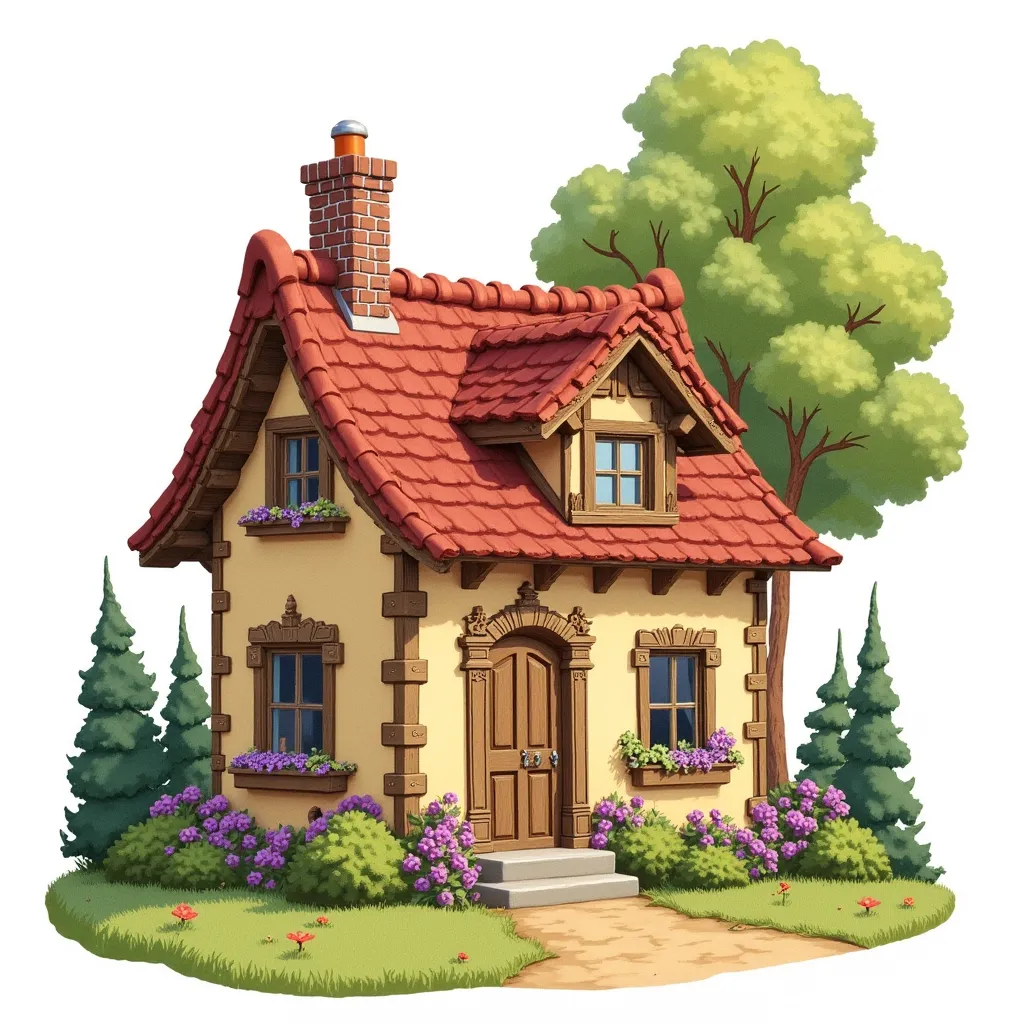
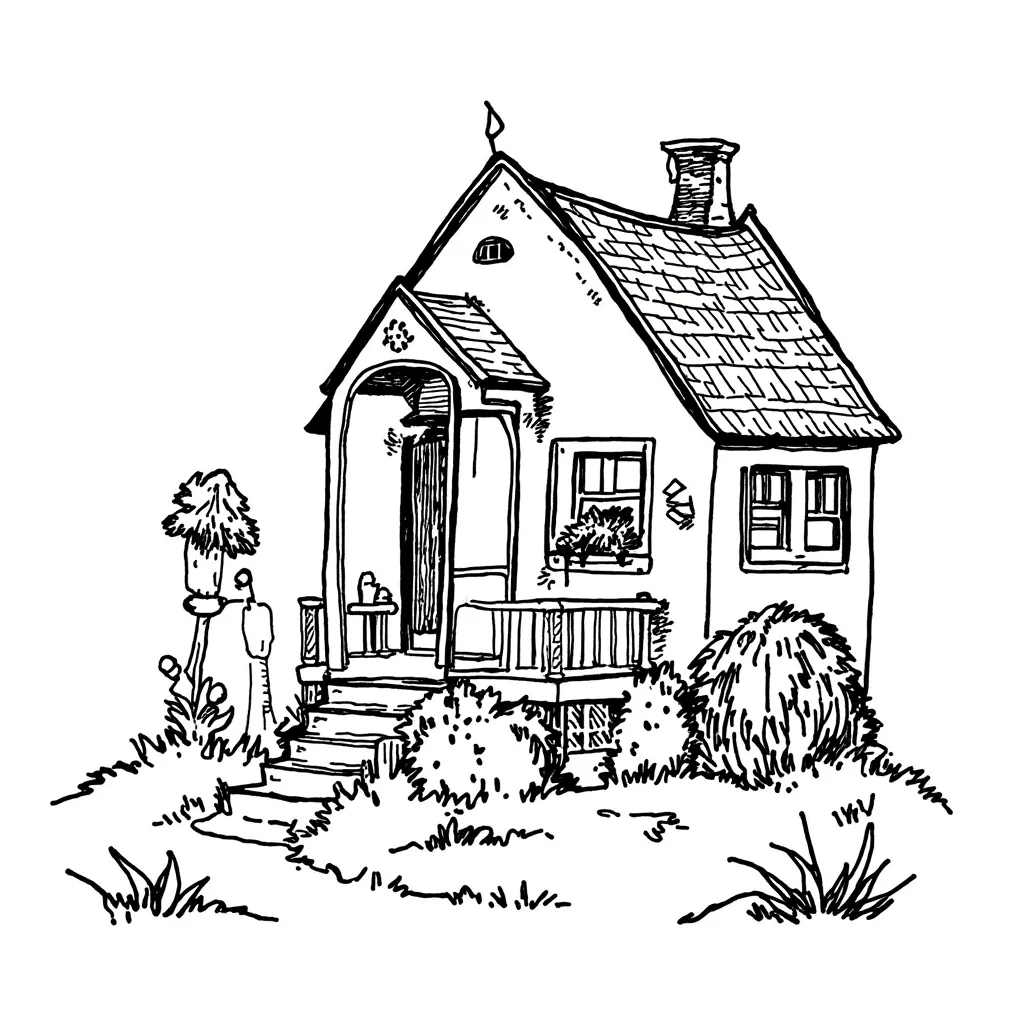
Test Station: redesign + B&W Book Illustrations + trimmed intro (#12)
* Test Station redesign: results above styles; wide zoomed swatches, 3-up

- Generated image(s) now appear above the style grid.
- Style tiles are wide/short, 3 per row, zoomed into the line/paint texture
  (subject cropped out), with a centered standout label (6px chip, no pill).

Claude-Session: https://claude.ai/code/session_01ThcTCcuJDTHZXnhAoF79Lt

* Test Station: B&W Book Illustrations look, new tile sample, trimmed intro

- server.js: add B&W pen-and-ink promptSuffix to Book Illustrations (vict) so it
  matches the Half Magic / Bodecker look (was trigger-only, came out colorful).
- public/samples/victorianstyle.webp: replace with the new black-and-white
  cottage so the tile preview matches the actual style.
- iOS TestStationView: drop the cumbersome intro heading/paragraph (solo use).

Claude-Session: https://claude.ai/code/session_01ThcTCcuJDTHZXnhAoF79Lt

---------

diff --git a/ios/ImageForge/TestStationView.swift b/ios/ImageForge/TestStationView.swift
@@ -1,7 +1,8 @@
 import SwiftUI
 
 /// The Style Machine — type one prompt, run it through any house style (or
-/// several at once) and compare. The iOS sibling of the web /test page.
+/// several at once) and compare. Results appear above the style swatches; each
+/// swatch is a wide, zoomed-in crop of the style's look with a centered label.
 struct TestStationView: View {
     @State private var prompt = ""
     @State private var selected: Set<String> = []
@@ -9,17 +10,17 @@ struct TestStationView: View {
     @State private var busy = false
     @State private var errorText: String?
 
-    private let grid = [GridItem(.adaptive(minimum: 150), spacing: 12)]
+    // Three across.
+    private let grid = Array(repeating: GridItem(.flexible(), spacing: 8), count: 3)
 
     var body: some View {
         NavigationStack {
             ScrollView {
                 VStack(alignment: .leading, spacing: 22) {
-                    intro
                     promptField
+                    if !results.isEmpty { resultsSection }   // image(s) above the styles
                     stylesSection
                     if !selected.isEmpty { runSelectedButton }
-                    if !results.isEmpty { resultsSection }
                 }
                 .padding()
             }
@@ -39,22 +40,10 @@ struct TestStationView: View {
 
     // MARK: - Sections
 
-    private var intro: some View {
-        VStack(alignment: .leading, spacing: 6) {
-            Text("The Style Machine")
-                .font(.title3.weight(.semibold))
-                .foregroundColor(Theme.text)
-            Text("Type one prompt, then tap a style to see it rendered that way. Your prompt stays put — tap another style, or tick a few and run them together to compare.")
-                .font(.footnote)
-                .foregroundColor(Theme.textDim)
-        }
-    }
-
     private var promptField: some View {
         VStack(alignment: .leading, spacing: 8) {
             Text("PROMPT")
-                .font(.caption2.weight(.semibold))
-                .tracking(1)
+                .font(.caption2.weight(.semibold)).tracking(1)
                 .foregroundColor(Theme.textDim)
             TextField("a teapot on a windowsill, a castle on a hill…",
                       text: $prompt, axis: .vertical)
@@ -63,19 +52,33 @@ struct TestStationView: View {
                 .foregroundColor(Theme.text)
                 .padding(12)
                 .background(Theme.surface)
-                .overlay(RoundedRectangle(cornerRadius: Theme.radius)
-                    .stroke(Theme.border, lineWidth: 1))
+                .overlay(RoundedRectangle(cornerRadius: Theme.radius).stroke(Theme.border, lineWidth: 1))
                 .cornerRadius(Theme.radius)
+        }
+    }
+
+    private var resultsSection: some View {
+        VStack(alignment: .leading, spacing: 12) {
+            HStack {
+                Text("RESULT")
+                    .font(.caption2.weight(.semibold)).tracking(1)
+                    .foregroundColor(Theme.textDim)
+                Spacer()
+                Button("Clear") { results.removeAll() }
+                    .font(.caption).foregroundColor(Theme.accent)
+            }
+            LazyVGrid(columns: [GridItem(.adaptive(minimum: 150), spacing: 12)], spacing: 12) {
+                ForEach(results) { ResultCard(result: $0) }
+            }
         }
     }
 
     private var stylesSection: some View {
         VStack(alignment: .leading, spacing: 12) {
             Text("STYLES")
-                .font(.caption2.weight(.semibold))
-                .tracking(1)
+                .font(.caption2.weight(.semibold)).tracking(1)
                 .foregroundColor(Theme.textDim)
-            LazyVGrid(columns: grid, spacing: 12) {
+            LazyVGrid(columns: grid, spacing: 8) {
                 ForEach(ForgeStyles.all) { style in
                     StyleTile(
                         style: style,
@@ -104,32 +107,12 @@ struct TestStationView: View {
         .opacity(busy ? 0.5 : 1)
     }
 
-    private var resultsSection: some View {
-        VStack(alignment: .leading, spacing: 12) {
-            HStack {
-                Text("RESULTS")
-                    .font(.caption2.weight(.semibold))
-                    .tracking(1)
-                    .foregroundColor(Theme.textDim)
-                Spacer()
-                Button("Clear") { results.removeAll() }
-                    .font(.caption)
-                    .foregroundColor(Theme.accent)
-            }
-            LazyVGrid(columns: grid, spacing: 12) {
-                ForEach(results) { ResultCard(result: $0) }
-            }
-        }
-    }
-
     // MARK: - Actions
 
     private func toggle(_ id: String) {
         if selected.contains(id) { selected.remove(id) } else { selected.insert(id) }
     }
 
-    /// Render the current prompt through each style, sequentially (kind to
-    /// Replicate/OpenAI rate limits), prepending a result card per style.
     private func run(_ styles: [ForgeStyle]) {
         let text = prompt.trimmingCharacters(in: .whitespacesAndNewlines)
         guard !text.isEmpty else { errorText = "Enter a prompt first."; return }
@@ -156,7 +139,7 @@ struct TestStationView: View {
     }
 }
 
-// MARK: - Style tile
+// MARK: - Style swatch (wide, zoomed into the linework; centered label)
 
 private struct StyleTile: View {
     let style: ForgeStyle
@@ -166,12 +149,14 @@ private struct StyleTile: View {
 
     var body: some View {
         Button(action: onRun) {
-            ZStack(alignment: .bottomLeading) {
-                // Sample preview (committed) or a soft placeholder.
+            ZStack {
+                // Zoomed crop of the sample so the line/paint texture shows,
+                // not the whole subject.
                 if let url = style.sampleURL {
                     AsyncImage(url: url) { phase in
                         switch phase {
-                        case .success(let image): image.resizable().scaledToFill()
+                        case .success(let image):
+                            image.resizable().scaledToFill().scaleEffect(1.7)
                         default: placeholder
                         }
                     }
@@ -179,23 +164,31 @@ private struct StyleTile: View {
                     placeholder
                 }
 
-                LinearGradient(colors: [.black.opacity(0.55), .clear],
-                               startPoint: .bottom, endPoint: .center)
-
+                // Centered, standout label (rounded rect — not a pill).
                 Text(style.name)
-                    .font(.subheadline.weight(.semibold))
+                    .font(.caption2.weight(.bold))
                     .foregroundColor(.white)
-                    .shadow(radius: 2)
-                    .padding(10)
+                    .multilineTextAlignment(.center)
+                    .padding(.horizontal, 7).padding(.vertical, 4)
+                    .background(RoundedRectangle(cornerRadius: 6).fill(.black.opacity(0.5)))
+                    .padding(4)
             }
-            .frame(height: 150)
+            .frame(height: 64)
             .frame(maxWidth: .infinity)
             .clipped()
-            .cornerRadius(Theme.radiusLg)
-            .overlay(RoundedRectangle(cornerRadius: Theme.radiusLg)
-                .stroke(isSelected ? Theme.accent : Theme.border,
-                        lineWidth: isSelected ? 2 : 1))
-            .overlay(alignment: .topTrailing) { selectToggle }
+            .cornerRadius(Theme.radius)
+            .overlay(RoundedRectangle(cornerRadius: Theme.radius)
+                .stroke(isSelected ? Theme.accent : Theme.border, lineWidth: isSelected ? 2.5 : 1))
+            .overlay(alignment: .topTrailing) {
+                Button(action: onToggle) {
+                    Image(systemName: isSelected ? "checkmark.circle.fill" : "circle")
+                        .font(.caption)
+                        .foregroundColor(isSelected ? Theme.accent : .white)
+                        .shadow(radius: 2)
+                        .padding(4)
+                }
+                .buttonStyle(.plain)
+            }
         }
         .buttonStyle(.plain)
     }
@@ -203,17 +196,6 @@ private struct StyleTile: View {
     private var placeholder: some View {
         LinearGradient(colors: [Theme.surface2, Theme.accentDim.opacity(0.4)],
                        startPoint: .topLeading, endPoint: .bottomTrailing)
-    }
-
-    private var selectToggle: some View {
-        Button(action: onToggle) {
-            Image(systemName: isSelected ? "checkmark.circle.fill" : "circle")
-                .font(.title3)
-                .foregroundColor(isSelected ? Theme.accent : .white)
-                .shadow(radius: 2)
-                .padding(8)
-        }
-        .buttonStyle(.plain)
     }
 }
 
@@ -230,8 +212,7 @@ private struct ResultCard: View {
                     AsyncImage(url: url) { phase in
                         switch phase {
                         case .success(let image): image.resizable().scaledToFill()
-                        case .failure: Image(systemName: "exclamationmark.triangle")
-                            .foregroundColor(Theme.danger)
+                        case .failure: Image(systemName: "exclamationmark.triangle").foregroundColor(Theme.danger)
                         default: ProgressView()
                         }
                     }
@@ -242,18 +223,11 @@ private struct ResultCard: View {
                     ProgressView()
                 }
             }
-            .frame(height: 150)
-            .frame(maxWidth: .infinity)
-            .clipped()
+            .frame(height: 150).frame(maxWidth: .infinity).clipped()
 
             VStack(alignment: .leading, spacing: 3) {
-                Text(result.styleName)
-                    .font(.subheadline.weight(.semibold))
-                    .foregroundColor(Theme.text)
-                Text(result.prompt)
-                    .font(.caption2)
-                    .foregroundColor(Theme.textDim)
-                    .lineLimit(2)
+                Text(result.styleName).font(.subheadline.weight(.semibold)).foregroundColor(Theme.text)
+                Text(result.prompt).font(.caption2).foregroundColor(Theme.textDim).lineLimit(2)
             }
             .frame(maxWidth: .infinity, alignment: .leading)
             .padding(10)

diff --git a/server.js b/server.js
@@ -167,7 +167,7 @@ const MODELS = {
[7 lines of base64/hex data omitted]
     { id: 'sageryza/hoonie', version: null, name: 'Hoonie Linocut', trigger: 'HOONIE', promptSuffix: 'linocut relief print, white background', defaultSteps: 40 },
